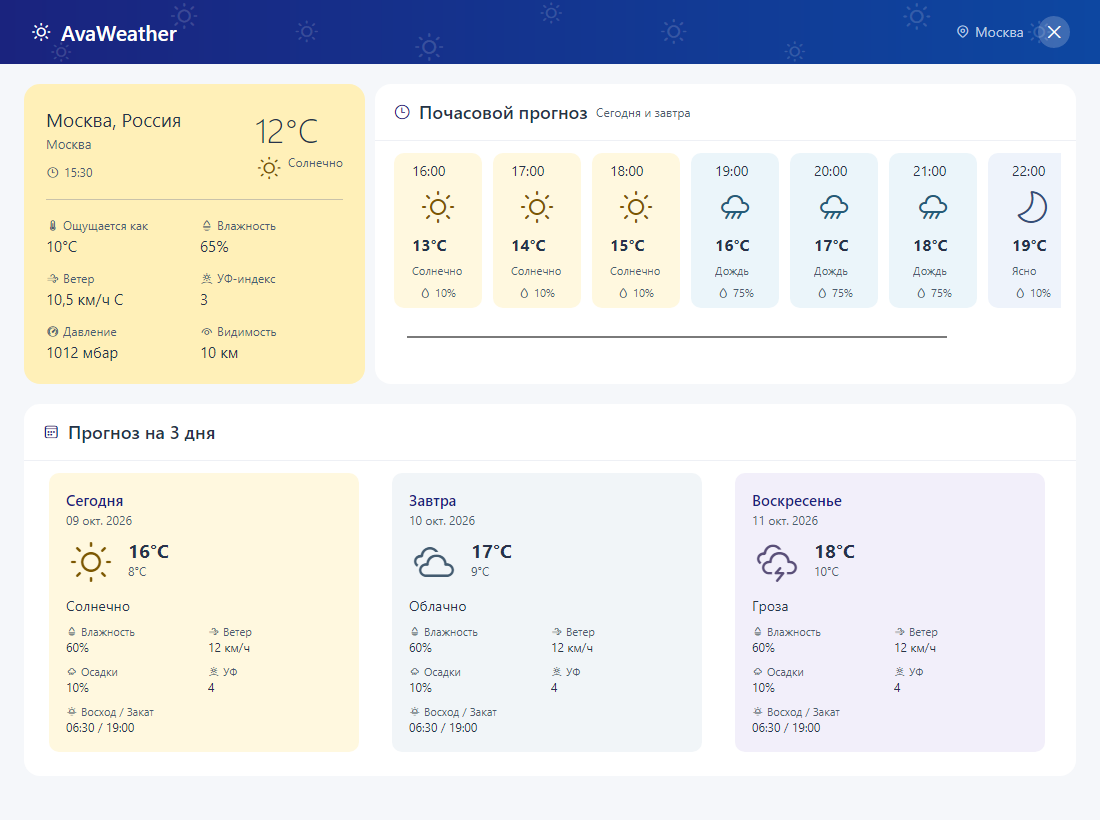
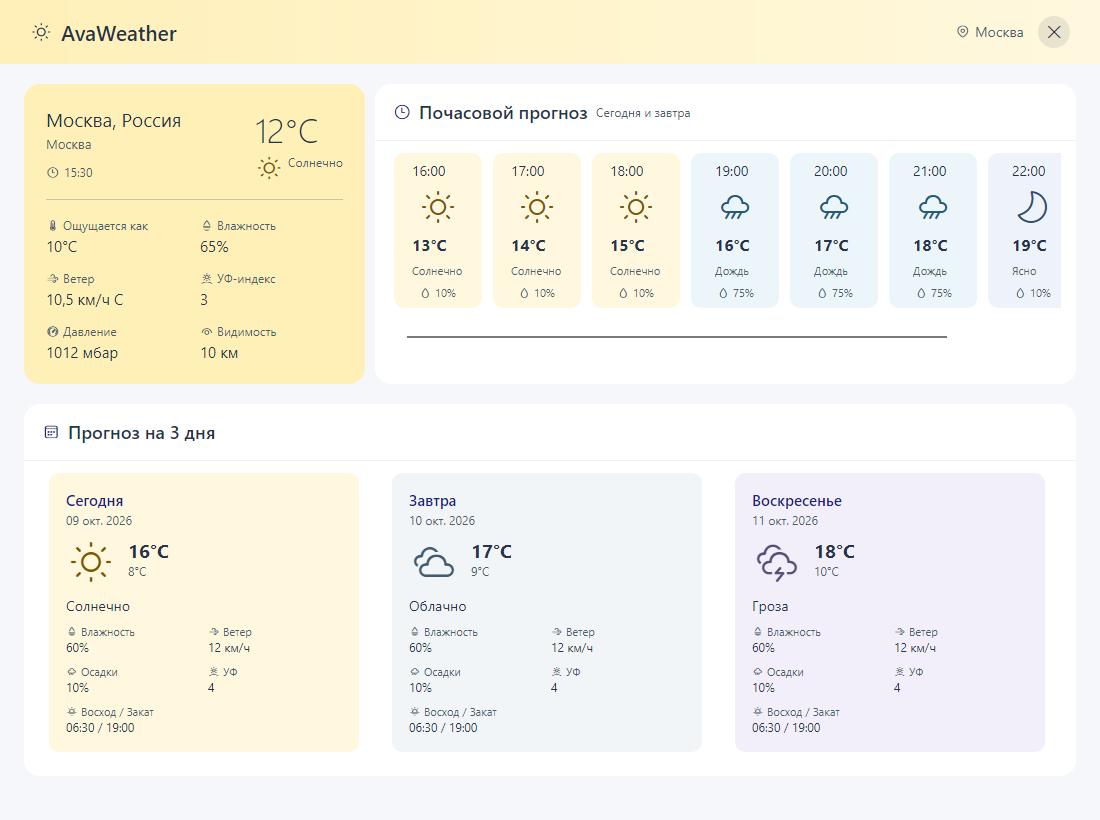
Match window header gradient to current weather palette

Changed region(s): [[0.0, 0.0, 1.0, 0.0915]]

diff --git a/AvaWeather/Views/WeatherView.cs b/AvaWeather/Views/WeatherView.cs
@@ -108,7 +108,7 @@ public sealed class WeatherView : UserControl
     {
         var location = new TextBlock
         {
-            Foreground = ColorService.GetBrush("Header.Location"), FontSize = 14,
+            Foreground = Muted, FontSize = 14,
             VerticalAlignment = VerticalAlignment.Center
         };
         BindText<WeatherViewModel>(location, x => x.HeaderLocation);
@@ -118,7 +118,7 @@ public sealed class WeatherView : UserControl
             Width = 32, Height = 32, Padding = new Thickness(6),
             Background = ColorService.GetBrush("Header.Close.Background"),
             BorderThickness = new Thickness(0), CornerRadius = new CornerRadius(16),
-            Content = UiIcon(FluentIconKind.Dismiss, 20, ColorService.GetBrush("White"))
+            Content = UiIcon(FluentIconKind.Dismiss, 20, Ink)
         };
         close.Bind(ToolTip.TipProperty, CompiledBinding.Create<WeatherViewModel, string>(x => x.Strings.CloseWindow));
         close.Bind(AutomationProperties.NameProperty, CompiledBinding.Create<WeatherViewModel, string>(x => x.Strings.CloseWindow));
@@ -128,77 +128,32 @@ public sealed class WeatherView : UserControl
         var header = new Border
         {
             Name = "WeatherHeader",
-            Background = HeaderGradient(),
+            Background = WeatherCardPalette.NeutralHeader,
+            Padding = new Thickness(30, 16),
             Child = new Grid
             {
+                ColumnDefinitions = new ColumnDefinitions("*,Auto"),
                 Children =
                 {
-                    HeaderWeatherPattern(),
-                    new Grid
+                    new StackPanel { Orientation = Orientation.Horizontal, Spacing = 9, Children = { UiIcon(FluentIconKind.WeatherSunny, 22, Ink), new TextBlock { Text = "AvaWeather", Foreground = Ink, FontSize = 21, FontWeight = FontWeight.SemiBold, VerticalAlignment = VerticalAlignment.Center } } },
+                    AtColumn(new StackPanel
                     {
-                        Margin = new Thickness(30, 16),
-                        ColumnDefinitions = new ColumnDefinitions("*,Auto"),
+                        Orientation = Orientation.Horizontal, Spacing = 14,
                         Children =
                         {
-                            new StackPanel { Orientation = Orientation.Horizontal, Spacing = 9, Children = { UiIcon(FluentIconKind.WeatherSunny, 22, ColorService.GetBrush("White")), new TextBlock { Text = "AvaWeather", Foreground = ColorService.GetBrush("White"), FontSize = 21, FontWeight = FontWeight.SemiBold, VerticalAlignment = VerticalAlignment.Center } } },
-                            AtColumn(new StackPanel
-                            {
-                                Orientation = Orientation.Horizontal, Spacing = 14,
-                                Children =
-                                {
-                                    new StackPanel { Orientation = Orientation.Horizontal, Spacing = 5, VerticalAlignment = VerticalAlignment.Center,
-                                        Children = { UiIcon(FluentIconKind.Location, 15, ColorService.GetBrush("Header.Location")), location } },
-                                    close
-                                }
-                            }, 1)
+                            new StackPanel { Orientation = Orientation.Horizontal, Spacing = 5, VerticalAlignment = VerticalAlignment.Center,
+                                Children = { UiIcon(FluentIconKind.Location, 15, Muted), location } },
+                            close
                         }
-                    }
+                    }, 1)
                 }
             }
         };
+        header.Bind(Border.BackgroundProperty,
+            CompiledBinding.Create<WeatherViewModel, IBrush>(x => x.HeaderBackground));
         WindowDecorationProperties.SetElementRole(header, WindowDecorationsElementRole.TitleBar);
         return header;
     }
-
-    private static Grid HeaderWeatherPattern()
-    {
-        var pattern = new Grid
-        {
-            Name = "HeaderWeatherPattern",
-            ColumnDefinitions = new ColumnDefinitions("*,*,*,*,*,*,*,*,*"),
-            IsHitTestVisible = false,
-            ClipToBounds = true
-        };
-        var sizes = new[] { 24d, 32, 27, 34, 26, 31, 25, 33, 28 };
-        var alignments = new[]
-        {
-            VerticalAlignment.Bottom, VerticalAlignment.Top, VerticalAlignment.Center,
-            VerticalAlignment.Bottom, VerticalAlignment.Top, VerticalAlignment.Center,
-            VerticalAlignment.Bottom, VerticalAlignment.Top, VerticalAlignment.Center
-        };
-        for (var index = 0; index < sizes.Length; index++)
-        {
-            var icon = new WeatherIcon(sizes[index], ColorService.GetBrush("Header.WeatherPattern"))
-            {
-                HorizontalAlignment = HorizontalAlignment.Center,
-                VerticalAlignment = alignments[index],
-                IsHitTestVisible = false
-            };
-            icon.Bind(WeatherIcon.KindProperty,
-                CompiledBinding.Create<WeatherViewModel, WeatherConditionKind>(x => x.Display!.IconKind));
-            Grid.SetColumn(icon, index);
-            pattern.Children.Add(icon);
-        }
-        BindVisible<WeatherViewModel>(pattern, x => x.HasWeather);
-        return pattern;
-    }
-
-    private static LinearGradientBrush HeaderGradient() => new()
-    {
-        StartPoint = new RelativePoint(0, 0, RelativeUnit.Relative),
-        EndPoint = new RelativePoint(1, 0, RelativeUnit.Relative),
-        GradientStops = { new GradientStop(ColorService.GetColor("Blue"), 0), new GradientStop(ColorService.GetColor("Header.GradientEnd"), 1) }
-    };
 
     private static Control LoadingPanel()
     {

diff --git a/AvaWeather.Tests/WeatherViewTests.cs b/AvaWeather.Tests/WeatherViewTests.cs
@@ -91,7 +91,7 @@ public class WeatherViewTests
     }
 
     [AvaloniaFact]
-    public async Task Header_pattern_uses_current_weather_and_does_not_block_window_dragging()
+    public async Task Header_gradient_follows_current_weather_without_background_icons()
     {
         var calls = 0;
         var vm = new WeatherViewModel(new DelegateRepository(() => Task.FromResult(new WeatherData
@@ -103,26 +103,23 @@ public class WeatherViewTests
         window.Show();
         Dispatcher.UIThread.RunJobs();
 
-        var pattern = window.GetVisualDescendants().OfType<Grid>()
-            .Single(grid => grid.Name == "HeaderWeatherPattern");
-        Assert.False(pattern.IsHitTestVisible);
-        Assert.False(pattern.IsVisible);
-        var icons = pattern.GetVisualDescendants().OfType<WeatherIcon>().ToArray();
-        Assert.Equal(9, icons.Length);
-        Assert.Equal(9, icons.Select(Grid.GetColumn).Distinct().Count());
+        var header = window.GetVisualDescendants().OfType<Border>()
+            .Single(border => border.Name == "WeatherHeader");
+        Assert.Empty(header.GetVisualDescendants().OfType<WeatherIcon>());
+        Assert.NotNull(header.Background);
 
         await vm.LoadAsync();
         Dispatcher.UIThread.RunJobs();
-        Assert.True(pattern.IsVisible);
-        Assert.All(icons, icon => Assert.Equal(WeatherConditionKind.ClearDay, icon.Kind));
-        Assert.All(icons, icon => Assert.Equal(Icon.WeatherSunny,
-            Assert.Single(icon.Children.OfType<FluentIcon>()).Icon));
+        var sunny = Assert.IsAssignableFrom<IGradientBrush>(header.Background);
+        Assert.Equal(Color.Parse("#FFF0B8"), sunny.GradientStops[0].Color);
+        Assert.Equal(Color.Parse("#FFF8DF"), sunny.GradientStops[1].Color);
 
         await vm.LoadAsync();
         Dispatcher.UIThread.RunJobs();
-        Assert.All(icons, icon => Assert.Equal(WeatherConditionKind.Rain, icon.Kind));
-        Assert.All(icons, icon => Assert.Equal(Icon.WeatherRain,
-            Assert.Single(icon.Children.OfType<FluentIcon>()).Icon));
+        var rainy = Assert.IsAssignableFrom<IGradientBrush>(header.Background);
+        Assert.Equal(Color.Parse("#D7EAF5"), rainy.GradientStops[0].Color);
+        Assert.Equal(Color.Parse("#EBF5FA"), rainy.GradientStops[1].Color);
+        Assert.Empty(header.GetVisualDescendants().OfType<WeatherIcon>());
         window.Close();
     }
 
@@ -169,6 +166,9 @@ public class WeatherViewTests
         var colors = WeatherCardPalette.For(condition);
         Assert.Equal(Color.Parse(current), Assert.IsAssignableFrom<ISolidColorBrush>(colors.CurrentBackground).Color);
         Assert.Equal(Color.Parse(forecast), Assert.IsAssignableFrom<ISolidColorBrush>(colors.ForecastBackground).Color);
+        var gradient = Assert.IsAssignableFrom<IGradientBrush>(colors.HeaderBackground);
+        Assert.Equal(Color.Parse(current), gradient.GradientStops[0].Color);
+        Assert.Equal(Color.Parse(forecast), gradient.GradientStops[1].Color);
     }
 
     [AvaloniaFact]

diff --git a/AvaWeather/ViewModels/WeatherCardPalette.cs b/AvaWeather/ViewModels/WeatherCardPalette.cs
@@ -1,9 +1,11 @@
+using Avalonia;
 using Avalonia.Media;
 using AvaWeather.Theming;
 
 namespace AvaWeather.ViewModels;
 
-public sealed record WeatherCardColors(IBrush CurrentBackground, IBrush ForecastBackground, IBrush Accent);
+public sealed record WeatherCardColors(IBrush CurrentBackground, IBrush ForecastBackground, IBrush Accent,
+    IBrush HeaderBackground);
 
 public static class WeatherCardPalette
 {
@@ -13,8 +15,24 @@ public static class WeatherCardPalette
             var prefix = $"Weather.{kind}";
             var theme = ThemeColorService.Default;
             return new WeatherCardColors(theme.GetBrush($"{prefix}.Current"),
-                theme.GetBrush($"{prefix}.Forecast"), theme.GetBrush($"{prefix}.Accent"));
+                theme.GetBrush($"{prefix}.Forecast"), theme.GetBrush($"{prefix}.Accent"),
+                Gradient(theme.GetColor($"{prefix}.Current"), theme.GetColor($"{prefix}.Forecast")));
         });
 
+    public static IBrush NeutralHeader { get; } = Gradient(
+        ThemeColorService.Default.GetColor("Header.Neutral.Start"),
+        ThemeColorService.Default.GetColor("Header.Neutral.End"));
+
     public static WeatherCardColors For(WeatherConditionKind condition) => Palettes[condition];
+
+    private static IBrush Gradient(Color start, Color end)
+    {
+        var brush = new LinearGradientBrush
+        {
+            StartPoint = new RelativePoint(0, 0, RelativeUnit.Relative),
+            EndPoint = new RelativePoint(1, 0, RelativeUnit.Relative),
+            GradientStops = { new GradientStop(start, 0), new GradientStop(end, 1) }
+        };
+        return brush.ToImmutable();
+    }
 }

diff --git a/AvaWeather/ViewModels/WeatherViewModel.cs b/AvaWeather/ViewModels/WeatherViewModel.cs
@@ -1,4 +1,5 @@
 using Application.Localization;
+using Avalonia.Media;
 using AvaWeather.Localization;
 using AvaWeather.Services;
 using CommunityToolkit.Mvvm.ComponentModel;
@@ -17,13 +18,18 @@ public partial class WeatherViewModel(IWeatherRepository repository) : Observabl
 
     public bool HasWeather => Display is not null && !IsLoading;
     public bool HasError => ErrorMessage is not null && !IsLoading;
+    public IBrush HeaderBackground => Display?.HeaderBackground ?? WeatherCardPalette.NeutralHeader;
     public string HeaderLocation => !string.IsNullOrWhiteSpace(Weather?.Name)
         ? Weather.Name : HasError ? Strings.LocationUnavailable : Strings.DetectingLocation;
 
     partial void OnStringsChanged(UiStrings value) => OnPropertyChanged(nameof(HeaderLocation));
 
     partial void OnWeatherChanged(WeatherData? value) => OnPropertyChanged(nameof(HeaderLocation));
-    partial void OnDisplayChanged(WeatherDisplay? value) => OnPropertyChanged(nameof(HasWeather));
+    partial void OnDisplayChanged(WeatherDisplay? value)
+    {
+        OnPropertyChanged(nameof(HasWeather));
+        OnPropertyChanged(nameof(HeaderBackground));
+    }
     partial void OnErrorMessageChanged(string? value)
     {
         OnPropertyChanged(nameof(HasError));

diff --git a/AvaWeather/ViewModels/WeatherDisplay.cs b/AvaWeather/ViewModels/WeatherDisplay.cs
@@ -27,6 +27,7 @@ public sealed record WeatherDisplay(
 {
     public IBrush CardBackground => WeatherCardPalette.For(IconKind).CurrentBackground;
     public IBrush Accent => WeatherCardPalette.For(IconKind).Accent;
+    public IBrush HeaderBackground => WeatherCardPalette.For(IconKind).HeaderBackground;
 
     public static WeatherDisplay From(WeatherData data, UiStrings strings)
     {
